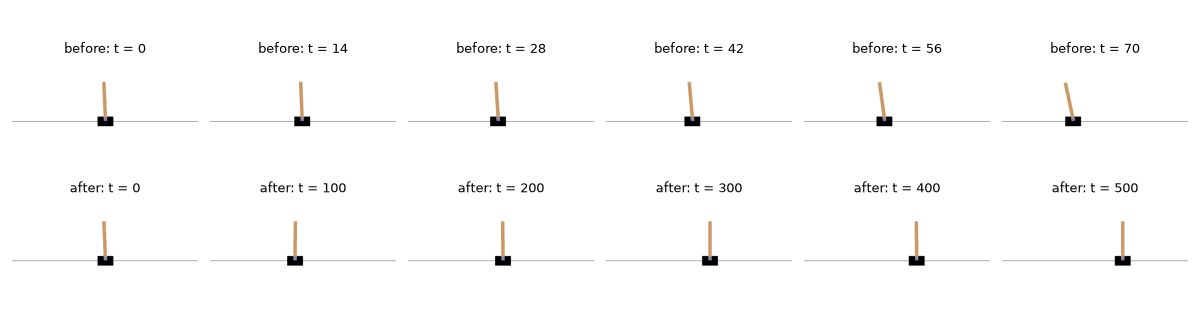
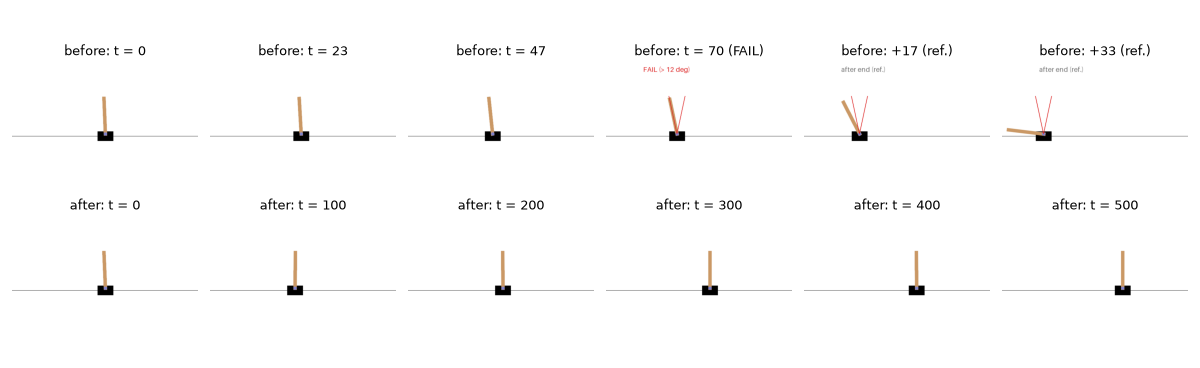
[claude] 第1章の学習前の絵に、判定の瞬間の印と終了後の参考の絵を追加

diff --git a/docs/qa_log.md b/docs/qa_log.md
@@ -64,3 +64,5 @@
 | 2026-10-02 | 第2章 | 6回目のセッションレビューの指摘（中3件・軽微）への対応方針（Notebook とクラス図を直し、`svg-diagram`・`circuit-diagram` のエージェント定義の確認手順に `--user-data-dir=<使い捨てのフォルダ>` と `--no-first-run` を加える） | 承認。すべて直して push する |
 | 2026-10-02 | 第2章 | （Claude の独自判断）レビューの指摘への直し方 | ①期待する結果のセルから、予告（2節）・学習で区別する理由（5-1節）・`Monitor` との対応（6節）を別のセルに分けた。②7節の「押し過ぎて反対側へ倒してしまう」は、seed 0〜99 で測った事実（100回とも角度の条件で終わり、傾きの向きが平均 3.4 回入れ替わっていた）と、そこからの解釈（「〜と考えられます」）に分けた。③「SB3 は区別を内部で扱っている」は、導入した SB3 2.9.0 のソース（`dummy_vec_env.py` の66行目、`on_policy_algorithm.py` の240行目）で確かめ、出典に加えた。④5節に、台車の位置がわずかに左へ動いた理由（位置を押す前の速さで進めるため）を足した。⑤第0章の前方参照を `reset()` と `step()` に限った。⑥クラス図の関連の線を実線に直し、`reset` を `reset(*, seed=None)` とし、Markdown に引数を省いている旨を書いた。SVG の変更は小さいので、Chrome での描画の確認はもう一度は行わず、push 後の GitHub での表示の確認に任せた。⑦全体像の表の4行目を、表の下の文に移した。作った環境を閉じていない点と、`Box` の `shape`・`dtype` の点は、レビュアーの評価どおり、そのままにした。誤りがあれば後日修正する前提 |
 | 2026-10-02 | 第2章 | push 後、クラス図の SVG（`diagrams/gymnasium_classes.md` から参照）と第2章の Notebook が GitHub で表示されるかをユーザーに見てもらった | 両方とも表示された。SVG は、Markdown ファイルから相対パスで参照すれば private リポジトリでも表示される。これで直近ゴール A の判定基準①〜④をすべて満たし、直近ゴール A（環境構築マニュアル＋第0〜2章）を完了とする（①は手順書の4〜6節について確認。3節は、Python 本体が先に入っていたため未確認） |
+| 2026-10-02 | 第0・1章 | ユーザーから「学習前の CartPole の絵について、失敗して倒れている絵を載せるのは難しいか。その方が学習者に意図が伝わる」と相談があった。CartPole は ±12 度で判定して終わるため、最後の絵が 12 度ほどしか傾かないことを説明し、3案を示した（判定の瞬間に ±12 度の線と `FAIL` の印を付け、そのあと棒が大きく倒れるまでを「終了後（参考）」として続ける〈推奨〉／終了後も物理を続けるだけ／最後の絵に印を重ねるだけ）。対象の章も聞いた（第0章と第1章の両方〈推奨〉／第1章だけ） | 印＋終了後の参考の両方。第0章と第1章の両方に入れる |
+| 2026-10-02 | 第0・1章 | （Claude の独自判断）失敗の絵の作り方 | 判定のあとは、ラッパーを外した本体（`env.unwrapped`）の `step()` を、棒が 80 度に達するまで呼び続けて絵を作った。Gymnasium は判定のあとの `step()` に「未定義の挙動」という警告を出すので、本文でその意味（`terminated` のあとは `reset()` する約束）を説明したうえで、その間だけ警告を止めた。印（±12 度の線と英字の文字）は Pillow で書き込み（LICENSE.md に Pillow〈MIT-CMU License〉を追加）、GIF では判定の瞬間を 10 枚並べて1秒止めた。第0章は判定のあとも でたらめな行動のままにした（15 回で 80 度）。第1章は、学習前の方策のままだと台車を同じ向きに押し続けて画面の外へ走り去り、倒れる様子が写らなかったので、判定のあとの行動を左右交互にした（33 回で 80 度）。エピソードの中の結果（第0章 18 回、第1章 学習前 70 回・学習後 500 回、7節の成績）は変わっていないことを、再実行の出力で確かめた。誤りがあれば後日修正する前提 |

diff --git a/chapters/ch01_first_training/README.md b/chapters/ch01_first_training/README.md
@@ -4,9 +4,11 @@
 
 ## 学習前
 
-PPO のモデルを作った直後、まだ何も学習していないエージェントです（seed = 0）。棒が少しずつ左へ傾いていき、70 回動かしたところで倒れたと判定されて終わります。1 枚を 100 ミリ秒で表示しているので、実際の CartPole の時間（1回の行動あたり 0.02 秒）の5倍ゆっくり再生しています。
+PPO のモデルを作った直後、まだ何も学習していないエージェントです（seed = 0）。棒が少しずつ左へ傾いていき、70 回動かしたところで、傾きが ±12 度（赤い線）を超えて「倒れた」と判定され、エピソードが終わります（`FAIL` と表示して1秒止めます）。
 
-![学習前のエージェント。棒が左へ傾いていき、70 回で倒れる](figures/ch01_before.gif)
+そのあとの、棒が大きく倒れていく様子（`after end (ref.)`）は、失敗が一目で分かるように、判定で終わったあとも絵を作るためだけに物理の計算を続けた参考の絵です（このあいだの行動は、台車をその場にとどめるために左右交互に押しています）。本来のエピソードには含まれません。1 枚を 100 ミリ秒で表示しているので、実際の CartPole の時間（1回の行動あたり 0.02 秒）の5倍ゆっくり再生しています。
+
+![学習前のエージェント。棒が左へ傾いていき、70 回で 12 度を超えて FAIL と判定される。そのあと参考として、棒が 80 度まで倒れる](figures/ch01_before.gif)
 
 ## 学習後
 
@@ -14,4 +16,4 @@ PPO で 30,000 ステップ学習させた後のエージェントです（seed 
 
 ![学習後のエージェント。台車が小刻みに動きながら、500 回まで棒を立て続ける](figures/ch01_after.gif)
 
-CartPole の仕様の出典は、[第1章の Notebook](ch01_first_training.ipynb) の末尾の「出典」の節にあります。絵は、Gymnasium（MIT License）の CartPole の描画処理が出力したものです。ライセンスは、リポジトリの [LICENSE.md](../../LICENSE.md) を見てください。
+CartPole の仕様の出典は、[第1章の Notebook](ch01_first_training.ipynb) の末尾の「出典」の節にあります。絵は、Gymnasium（MIT License）の CartPole の描画処理が出力したものです。学習前の GIF には、著者が Pillow で線と文字を書き込んでいます。ライセンスは、リポジトリの [LICENSE.md](../../LICENSE.md) を見てください。
